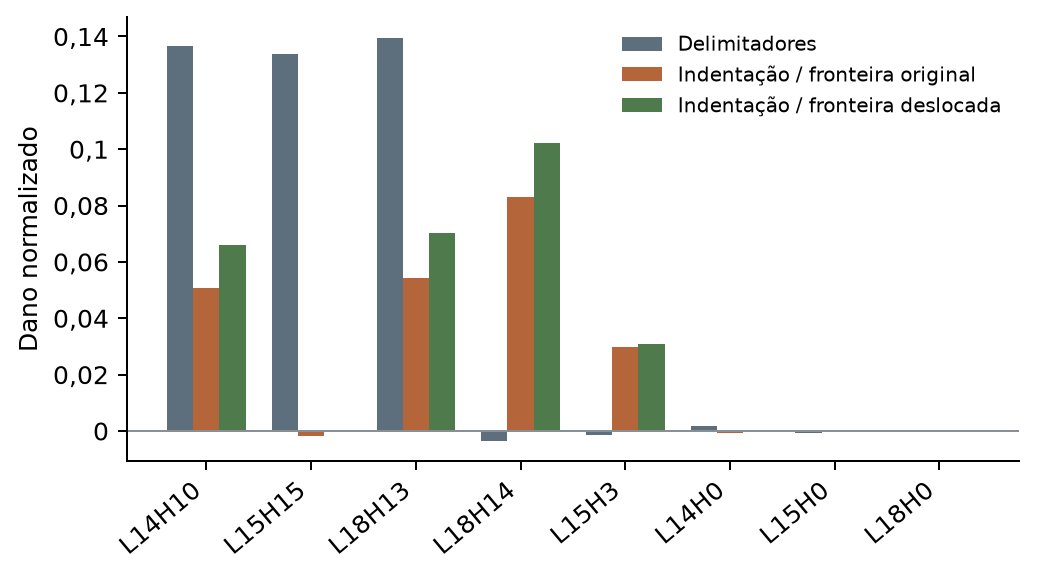
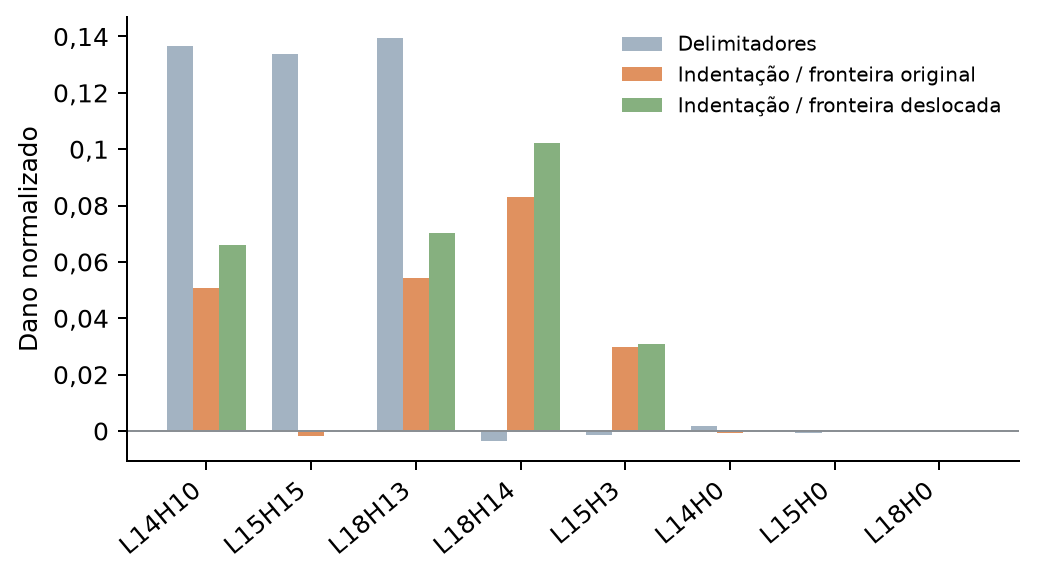
Use lighter fill tones for bar charts
Dark sage, terracotta and slate side by side looked muddy in the head
effects and natural behavior bars; bars now use mid tones of the same
hues, and value labels are dark.

diff --git a/scripts/plot_final.py b/scripts/plot_final.py
@@ -11,7 +11,15 @@ import matplotlib.ticker
 import numpy as np
 from matplotlib.patches import FancyBboxPatch
 
-from scripts.palette import GRAY, SAGE_CMAP, SAGE_DARK, SLATE, TERRACOTTA
+from scripts.palette import (
+    GRAY,
+    SAGE_CMAP,
+    SAGE_DARK,
+    SAGE_FILL,
+    SLATE_FILL,
+    TERRACOTTA,
+    TERRACOTTA_FILL,
+)
 
 ROOT = Path(__file__).resolve().parents[1]
 OUT = ROOT / "figures/final"
@@ -98,8 +106,8 @@ def main():
         x = np.arange(3)
         for shift, (run, label, color) in enumerate(
             (
-                ("behavior_run", "Fronteira original", TERRACOTTA),
-                ("boundary_run", "Fronteira deslocada", SAGE_DARK),
+                ("behavior_run", "Fronteira original", TERRACOTTA_FILL),
+                ("boundary_run", "Fronteira deslocada", SAGE_FILL),
             )
         ):
             values = [
@@ -129,7 +137,7 @@ def main():
                     ha="center",
                     va="bottom",
                     fontsize=8,
-                    color="white",
+                    color="#1f1f1f",
                 )
         ax.set_xticks(x, list(translations.values()))
         ax.set_ylim(0, 105)
@@ -164,9 +172,9 @@ def main():
             "indent_boundary_validation": "Indentação / fronteira deslocada",
         }
         colors = {
-            "bracket_validation": SLATE,
-            "indent_validation": TERRACOTTA,
-            "indent_boundary_validation": SAGE_DARK,
+            "bracket_validation": SLATE_FILL,
+            "indent_validation": TERRACOTTA_FILL,
+            "indent_boundary_validation": SAGE_FILL,
         }
         for i, run in enumerate(runs):
             effects = summary[run]["validation"]["all_eligible"]["effects"]

diff --git a/scripts/palette.py b/scripts/palette.py
@@ -18,6 +18,12 @@ TERRACOTTA_LIGHT = "#ecd3c3"
 SLATE = "#5d6f7d"
 GRAY = "#8a8f94"
 
+# Lighter, cleaner fills for bars (same hues and meanings as above): solid dark
+# fills side by side read as muddy, so bars use these mid tones.
+SAGE_FILL = "#86b07f"
+TERRACOTTA_FILL = "#e0915f"
+SLATE_FILL = "#a3b3c2"
+
 SAGE_CMAP = LinearSegmentedColormap.from_list(
     "sage", ["#ffffff", SAGE_LIGHT, SAGE, SAGE_DARK, "#2c4a2b"]
 )
